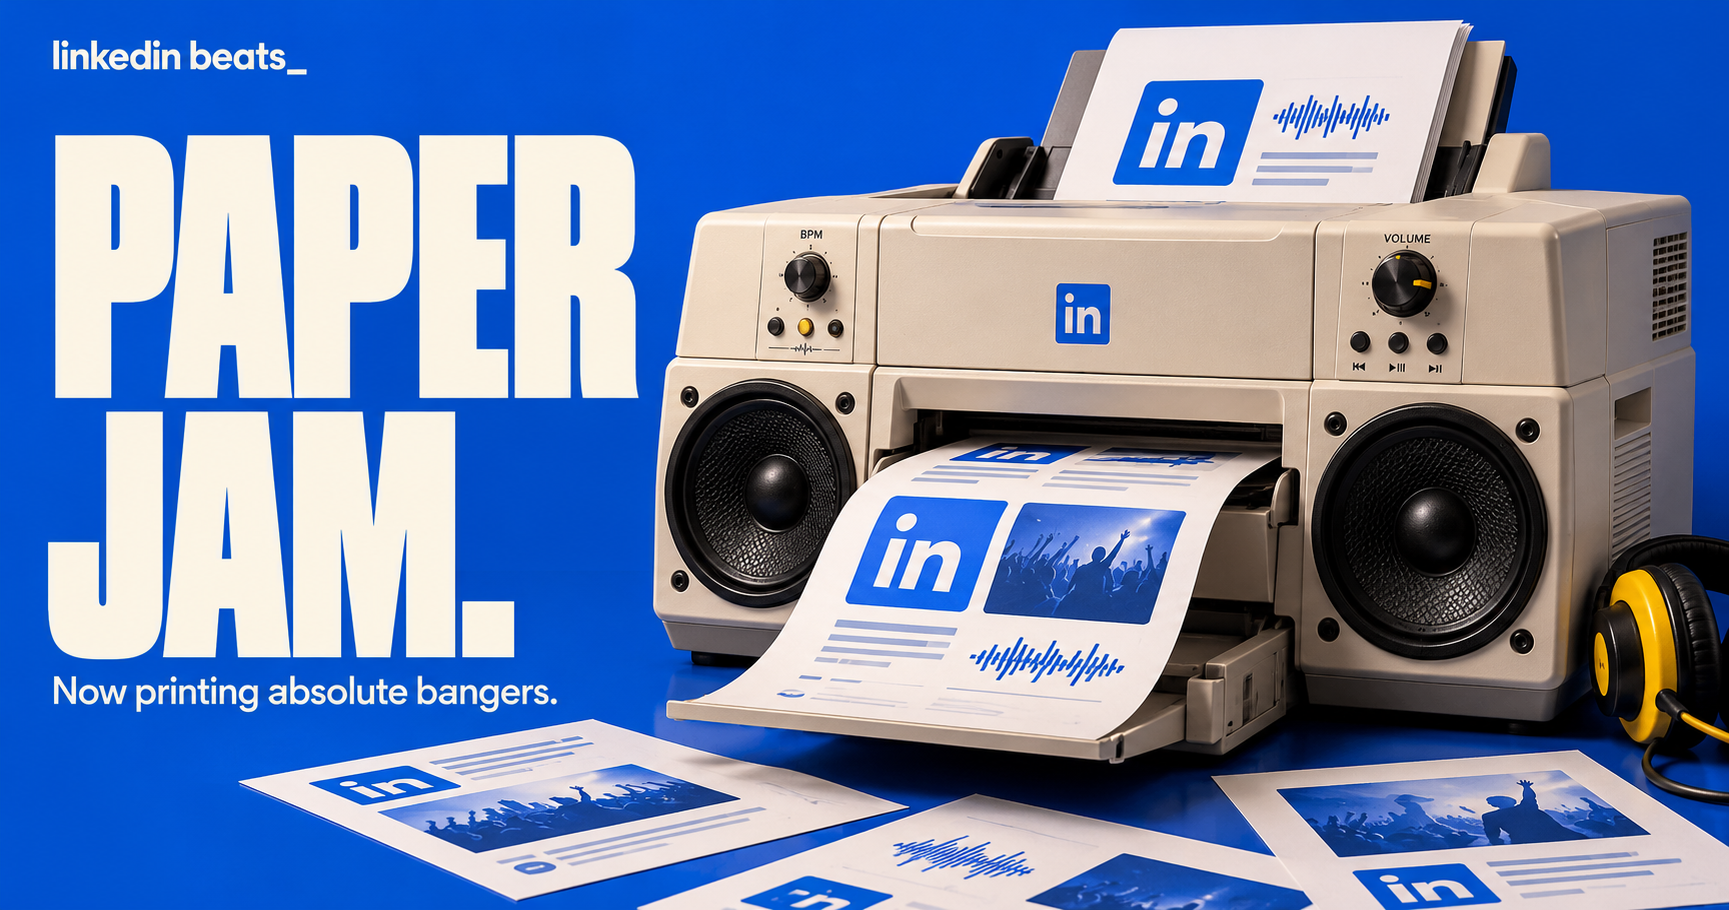
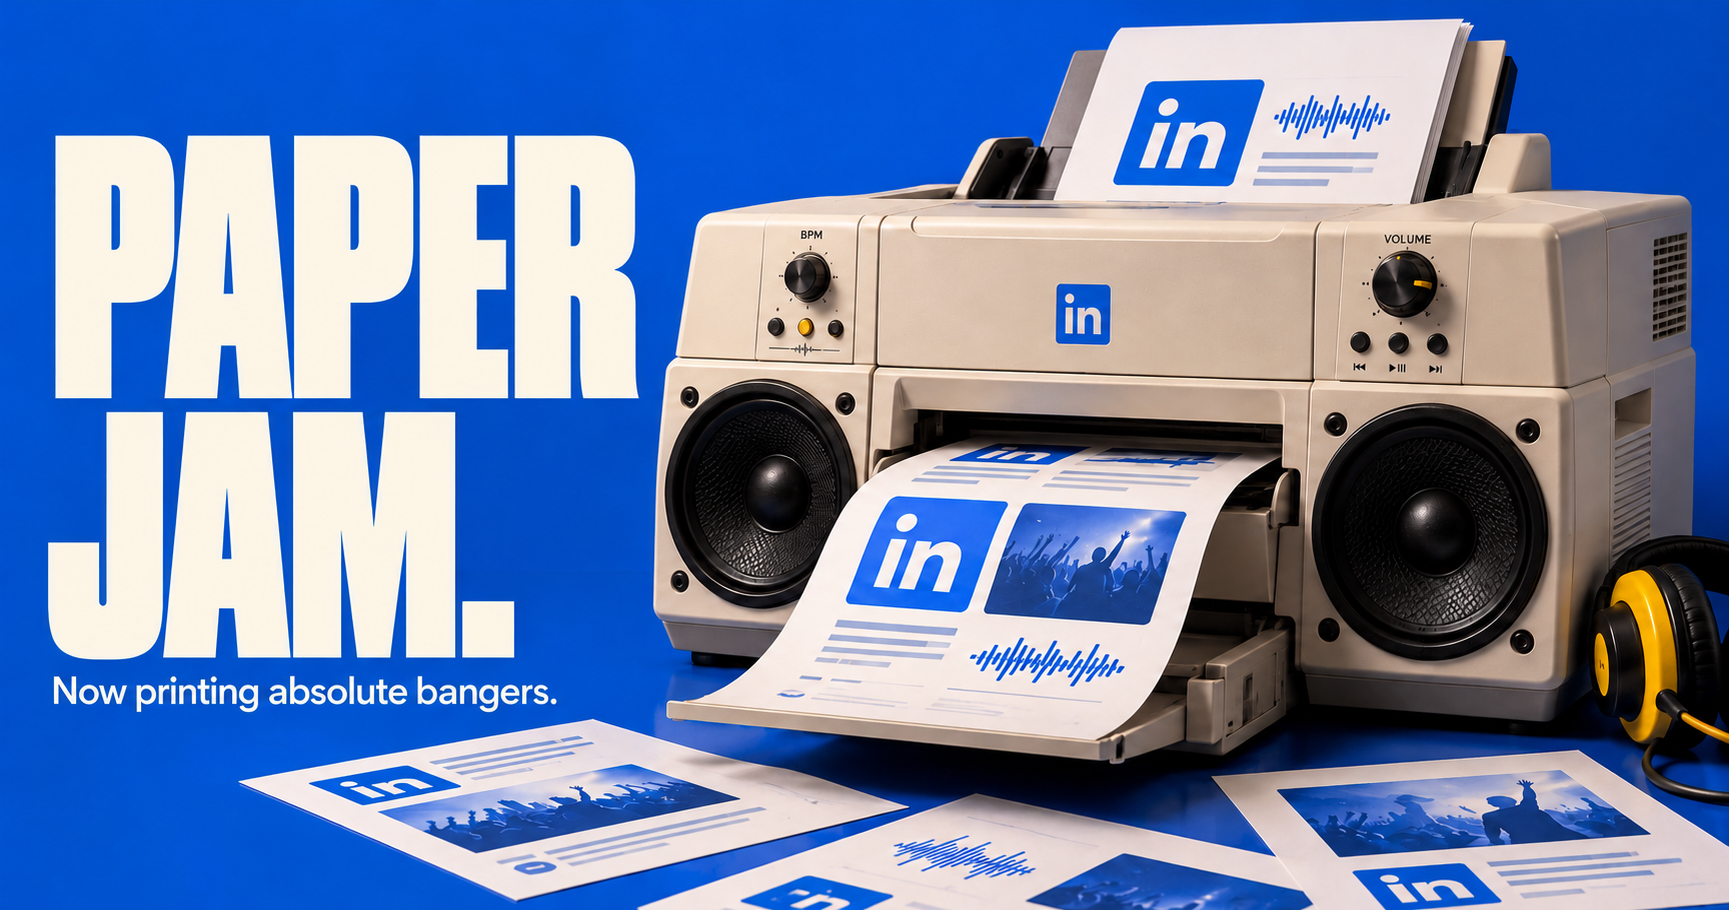
Use approved small wordmark on social share cards

diff --git a/optimizer/index.html b/optimizer/index.html
@@ -20,7 +20,7 @@
     <meta property="og:title" content="Paper Jam. Now printing absolute bangers." />
     <meta property="og:description" content="Your LinkedIn post. Now a banger. Supercharge your announcement, make a beat, and share your debut single." />
     <meta property="og:url" content="https://linkedinbeats.com/optimizer" />
-    <meta property="og:image" content="https://linkedinbeats.com/share/optimizer-printer-20261022.jpg" />
+    <meta property="og:image" content="https://linkedinbeats.com/share/optimizer-printer-20261022-v2.jpg" />
     <meta property="og:image:width" content="1200" />
     <meta property="og:image:height" content="630" />
     <meta property="og:image:alt" content="A beige printer with two built-in speakers prints LinkedIn images against cobalt blue. Paper Jam. Now printing absolute bangers." />
@@ -28,7 +28,7 @@
     <meta name="twitter:card" content="summary_large_image" />
     <meta name="twitter:title" content="Paper Jam. Now printing absolute bangers." />
     <meta name="twitter:description" content="Your LinkedIn post. Now a banger. Supercharge your announcement, make a beat, and share your debut single." />
-    <meta name="twitter:image" content="https://linkedinbeats.com/share/optimizer-printer-20261022.jpg" />
+    <meta name="twitter:image" content="https://linkedinbeats.com/share/optimizer-printer-20261022-v2.jpg" />
     <meta property="og:image:type" content="image/jpeg" />
     <meta name="twitter:image:alt" content="A beige printer with two built-in speakers prints LinkedIn images against cobalt blue. Paper Jam. Now printing absolute bangers." />
   </head>

diff --git a/studio/index.html b/studio/index.html
@@ -22,7 +22,7 @@
     <meta property="og:title" content="Let’s Circle Back — LinkedIn Beats" />
     <meta property="og:description" content="Synergy and the office band. Corporate jargon, robot vocals, and unreasonably good beats." />
     <meta property="og:url" content="https://linkedinbeats.com/studio/" />
-    <meta property="og:image" content="https://linkedinbeats.com/share/synergy-team-20261022.jpg" />
+    <meta property="og:image" content="https://linkedinbeats.com/share/synergy-team-20261022-v2.jpg" />
     <meta property="og:image:width" content="1200" />
     <meta property="og:image:height" content="630" />
     <meta property="og:image:type" content="image/jpeg" />
@@ -31,7 +31,7 @@
     <meta name="twitter:card" content="summary_large_image" />
     <meta name="twitter:title" content="Let’s Circle Back — LinkedIn Beats" />
     <meta name="twitter:description" content="Synergy and the office band. Corporate jargon, robot vocals, and unreasonably good beats." />
-    <meta name="twitter:image" content="https://linkedinbeats.com/share/synergy-team-20261022.jpg" />
+    <meta name="twitter:image" content="https://linkedinbeats.com/share/synergy-team-20261022-v2.jpg" />
     <meta name="twitter:image:alt" content="Synergy and four office-band colleagues perform together with guitars, keys and drums in front of blue LinkedIn banners." />
   </head>
   <body class="studio-meeting">

diff --git a/synth/index.html b/synth/index.html
@@ -4,7 +4,7 @@
   <meta property="og:title" content="Sound business decisions. — LinkedIn Beats" />
   <meta property="og:description" content="The whole team. Eight pads. Endless alignment. Make a beat with the corporate sampler." />
   <meta property="og:url" content="https://linkedinbeats.com/synth/" />
-  <meta property="og:image" content="https://linkedinbeats.com/share/synth-20261022.jpg" />
+  <meta property="og:image" content="https://linkedinbeats.com/share/synth-20261022-v2.jpg" />
   <meta property="og:image:width" content="1200" />
   <meta property="og:image:height" content="630" />
   <meta property="og:image:type" content="image/jpeg" />
@@ -12,6 +12,6 @@
   <meta name="twitter:card" content="summary_large_image" />
   <meta name="twitter:title" content="Sound business decisions. — LinkedIn Beats" />
   <meta name="twitter:description" content="The whole team. Eight pads. Endless alignment. Make a beat with the corporate sampler." />
-  <meta name="twitter:image" content="https://linkedinbeats.com/share/synth-20261022.jpg" />
+  <meta name="twitter:image" content="https://linkedinbeats.com/share/synth-20261022-v2.jpg" />
   <meta name="twitter:image:alt" content="An ivory and cobalt synthesizer with eight yellow sample pads beneath the headline Sound business decisions." />
 </head><body><div id="root"></div><script type="module" src="/src/synth/main.jsx"></script></body></html>

diff --git a/index.html b/index.html
@@ -18,7 +18,7 @@
   <meta property="og:title" content="LinkedIn Beats — Sound like LinkedIn." />
   <meta property="og:description" content="The soundtrack of professional nonsense. Corporate parody tracks, the LinkedInifier, and the company store." />
   <meta property="og:url" content="https://linkedinbeats.com/" />
-  <meta property="og:image" content="https://linkedinbeats.com/share/synergy-team-20261022.jpg" />
+  <meta property="og:image" content="https://linkedinbeats.com/share/synergy-team-20261022-v2.jpg" />
   <meta property="og:image:width" content="1200" />
   <meta property="og:image:height" content="630" />
   <meta property="og:image:type" content="image/jpeg" />
@@ -26,7 +26,7 @@
   <meta name="twitter:card" content="summary_large_image" />
   <meta name="twitter:title" content="LinkedIn Beats — Sound like LinkedIn." />
   <meta name="twitter:description" content="The soundtrack of professional nonsense. Corporate parody tracks, the LinkedInifier, and the company store." />
-  <meta name="twitter:image" content="https://linkedinbeats.com/share/synergy-team-20261022.jpg" />
+  <meta name="twitter:image" content="https://linkedinbeats.com/share/synergy-team-20261022-v2.jpg" />
   <meta name="twitter:image:alt" content="Synergy and the office band with guitars, keys and drums in front of blue LinkedIn banners. Let’s Circle Back." />
 </head>
 <body>
